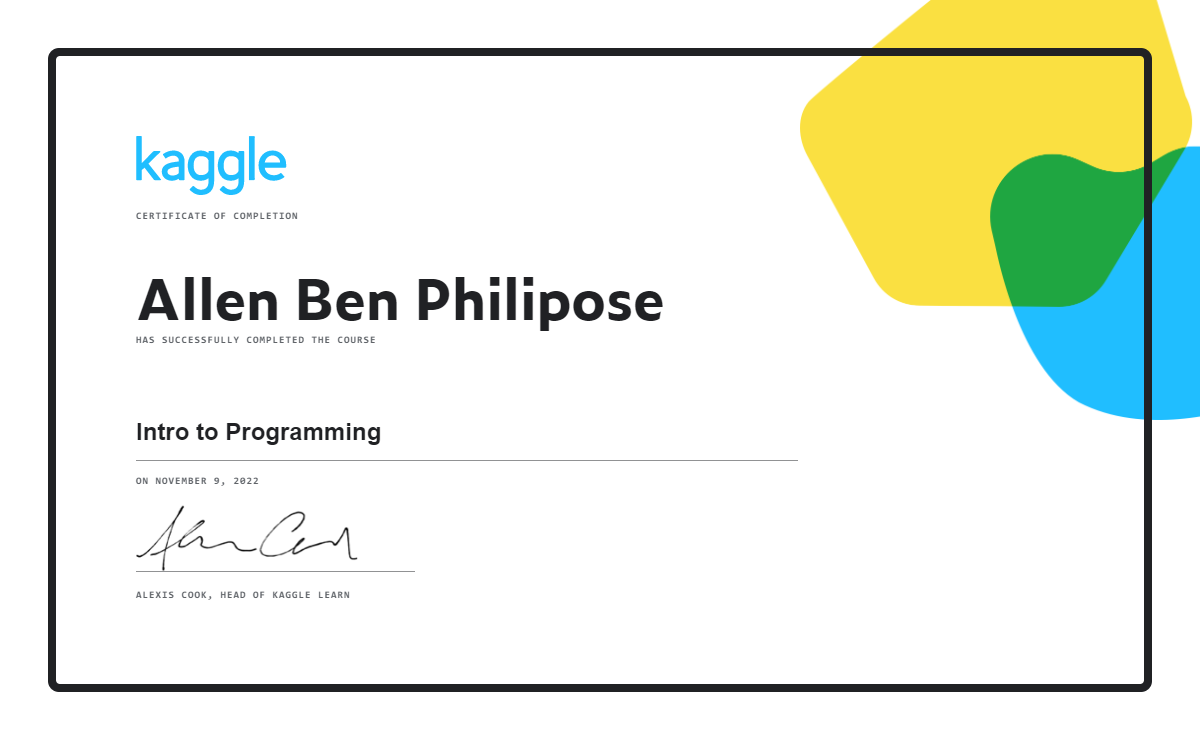
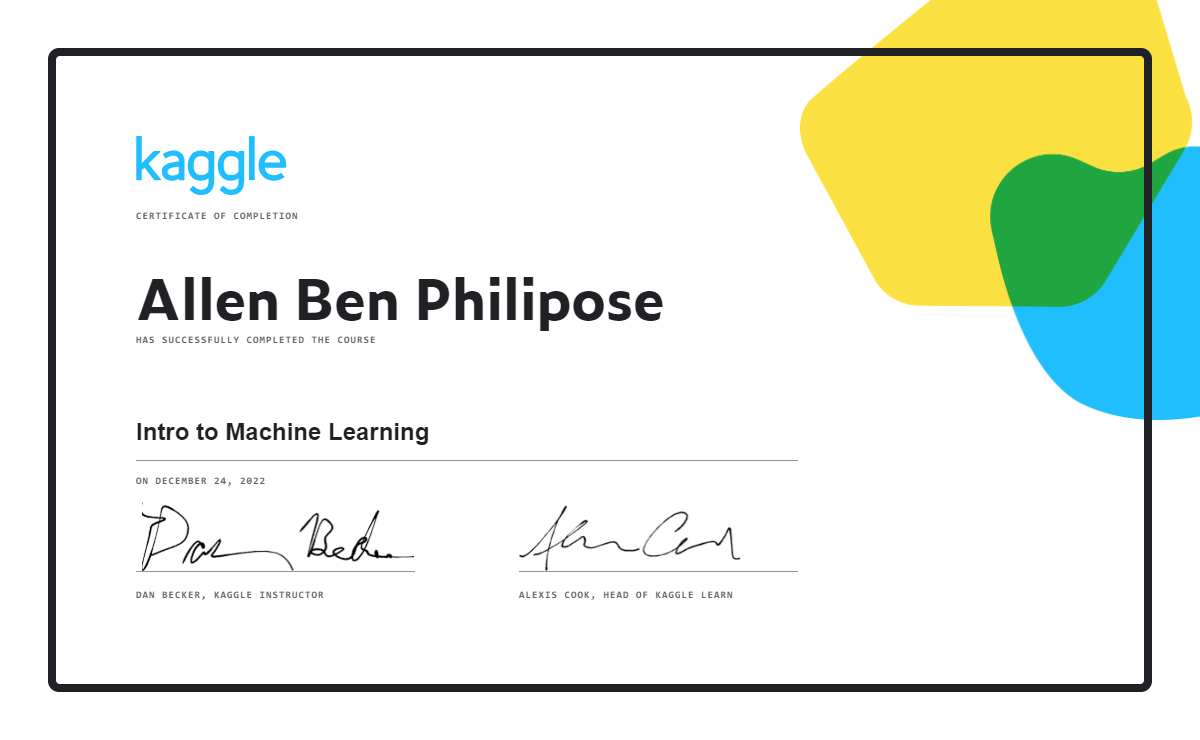
CERTIFIED

Changed region(s): [[0.1233, 0.6838, 0.3392, 0.8081], [0.4317, 0.6838, 0.6167, 0.8081], [0.185, 0.5595, 0.37, 0.6216]]

diff --git a/README.md b/README.md
@@ -1,1 +1,10 @@
 # Data: Kaggle Courses I
+
+- Intro to AI Ethics
+- Data Cleaning
+- Feature Engineering
+- Introduction to Machine Learning
+- Pandas
+- Programming
+- Python
+- Data Visualization
